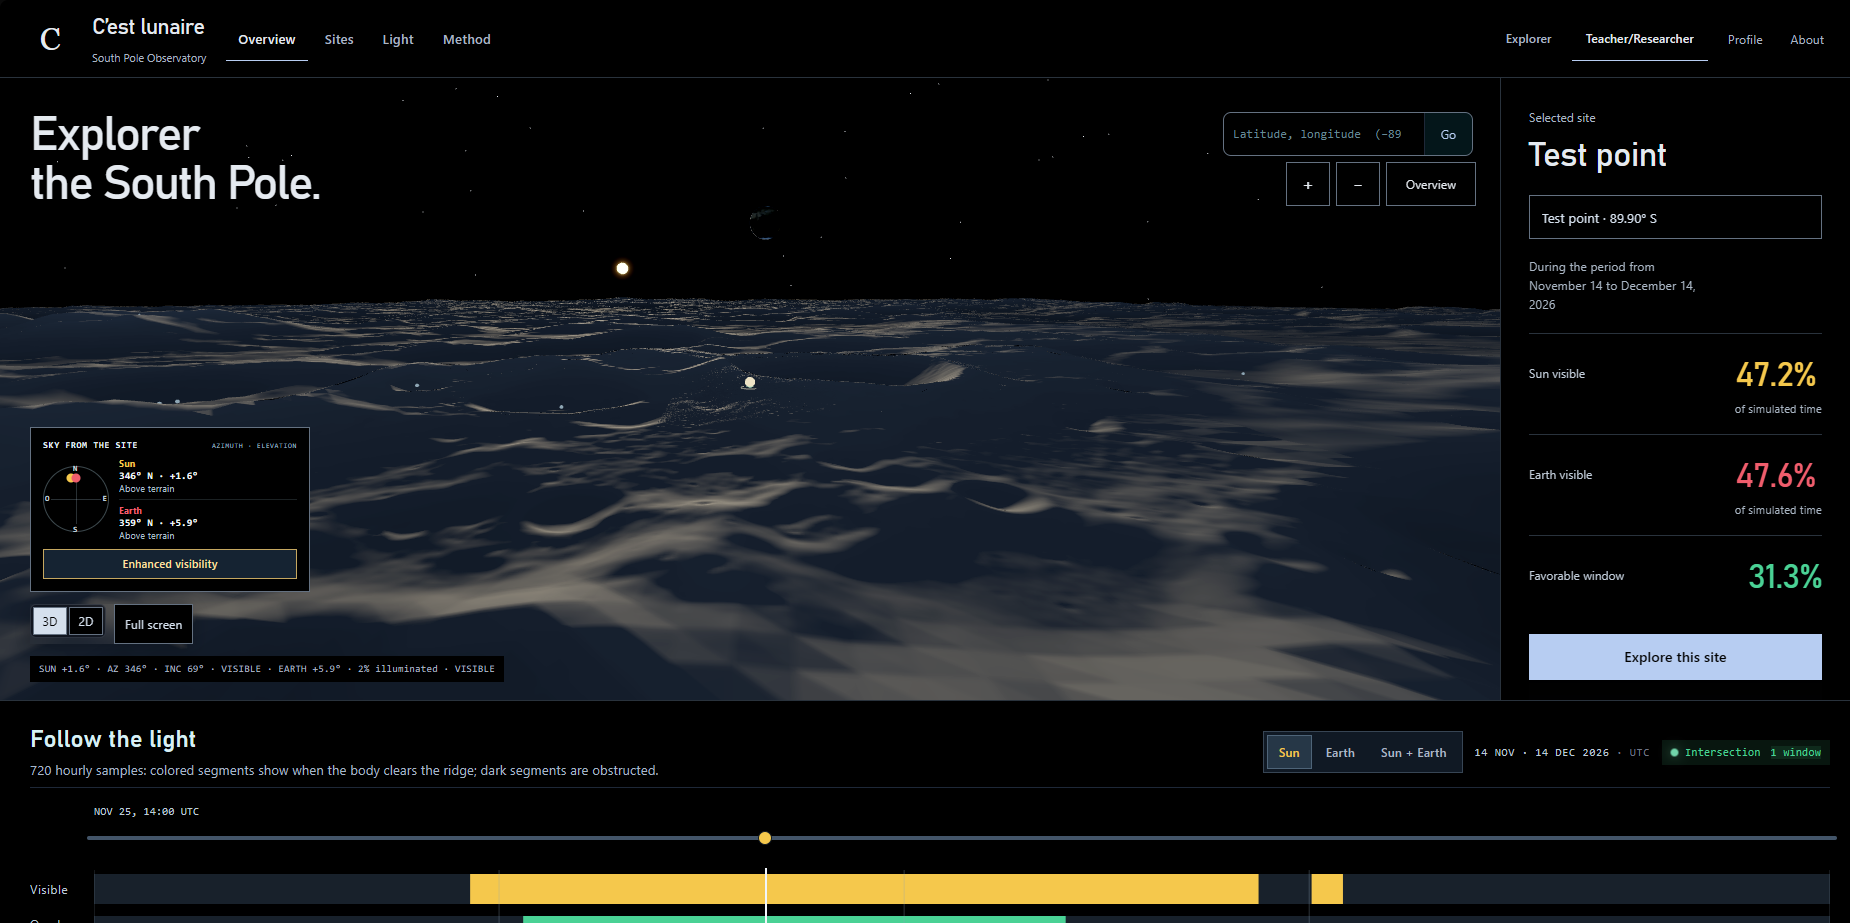
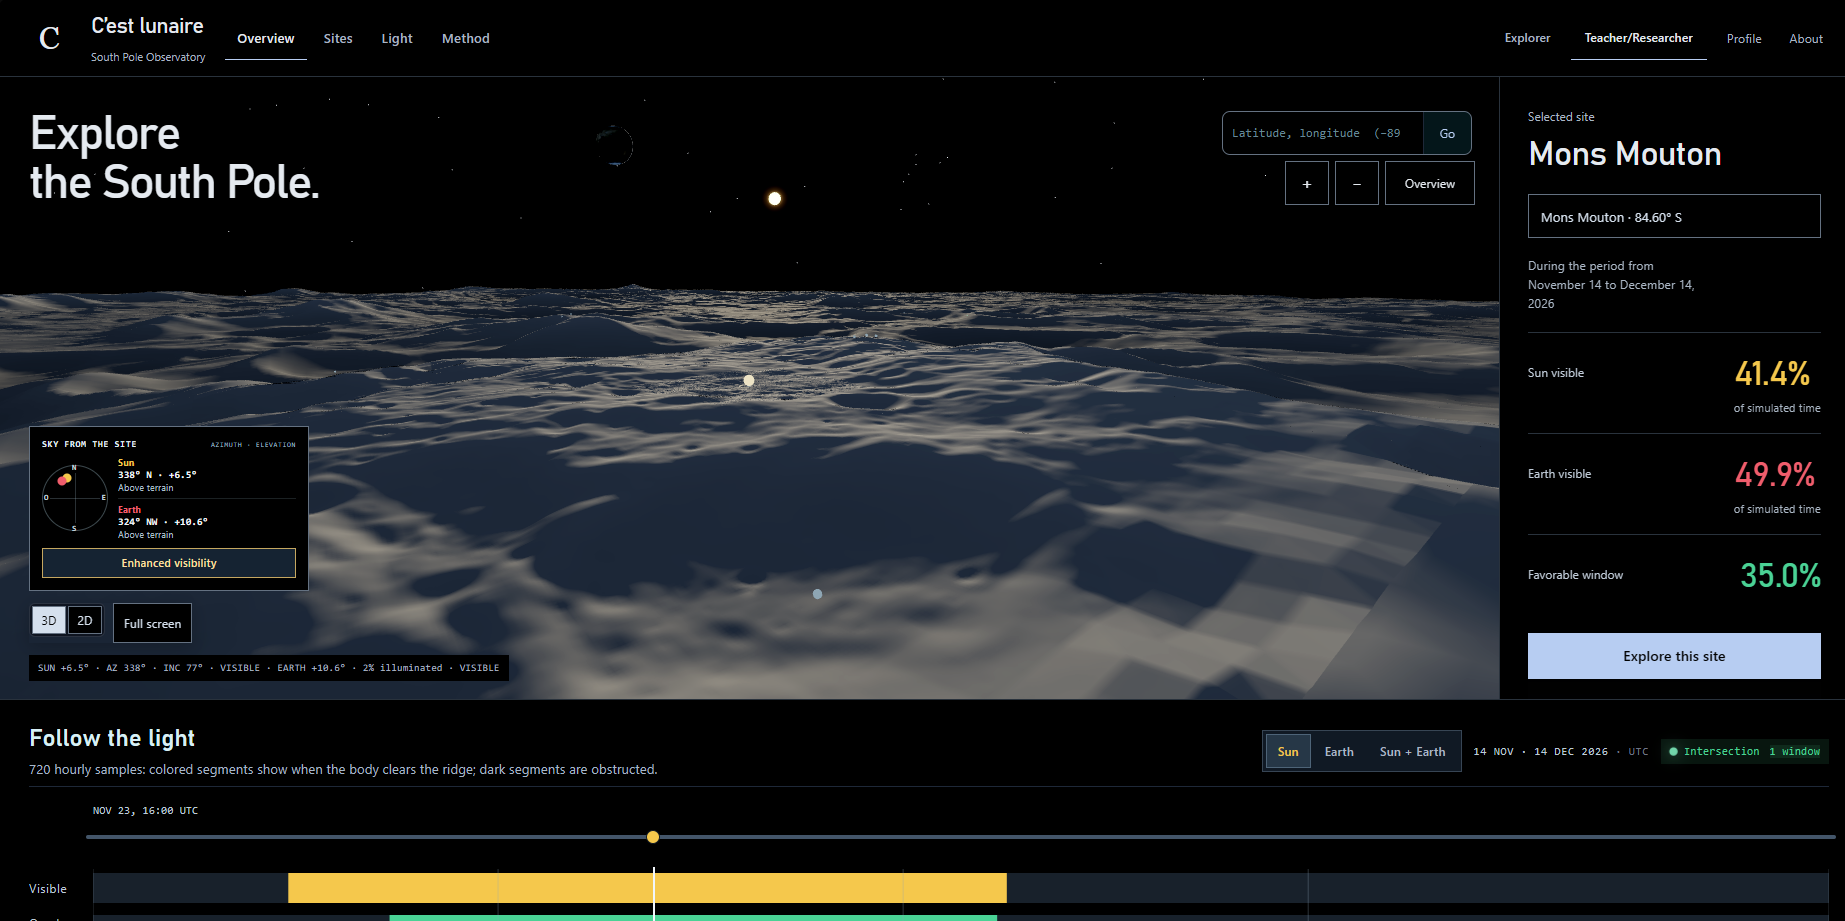
Updated Image Preview

diff --git a/README.md b/README.md
@@ -105,6 +105,9 @@ AI tools were used to speed up coding and assist with integrating the calculatio
 
 ## Run locally
 
+> **Windows Smart App Control** may block `Start Cest Lunaire.cmd`. If that happens, open a terminal in the project folder and run `python server-local.py` to start the 
+app directly with Python.
+
 Install Python 3 and use a browser with WebGL and gzip DecompressionStream support.
 
 **Windows:** Open the project folder in File Explorer and double-click **Start Cest Lunaire.cmd**. The launcher finds `server-local.py` next to itself, wherever you saved the folder.
